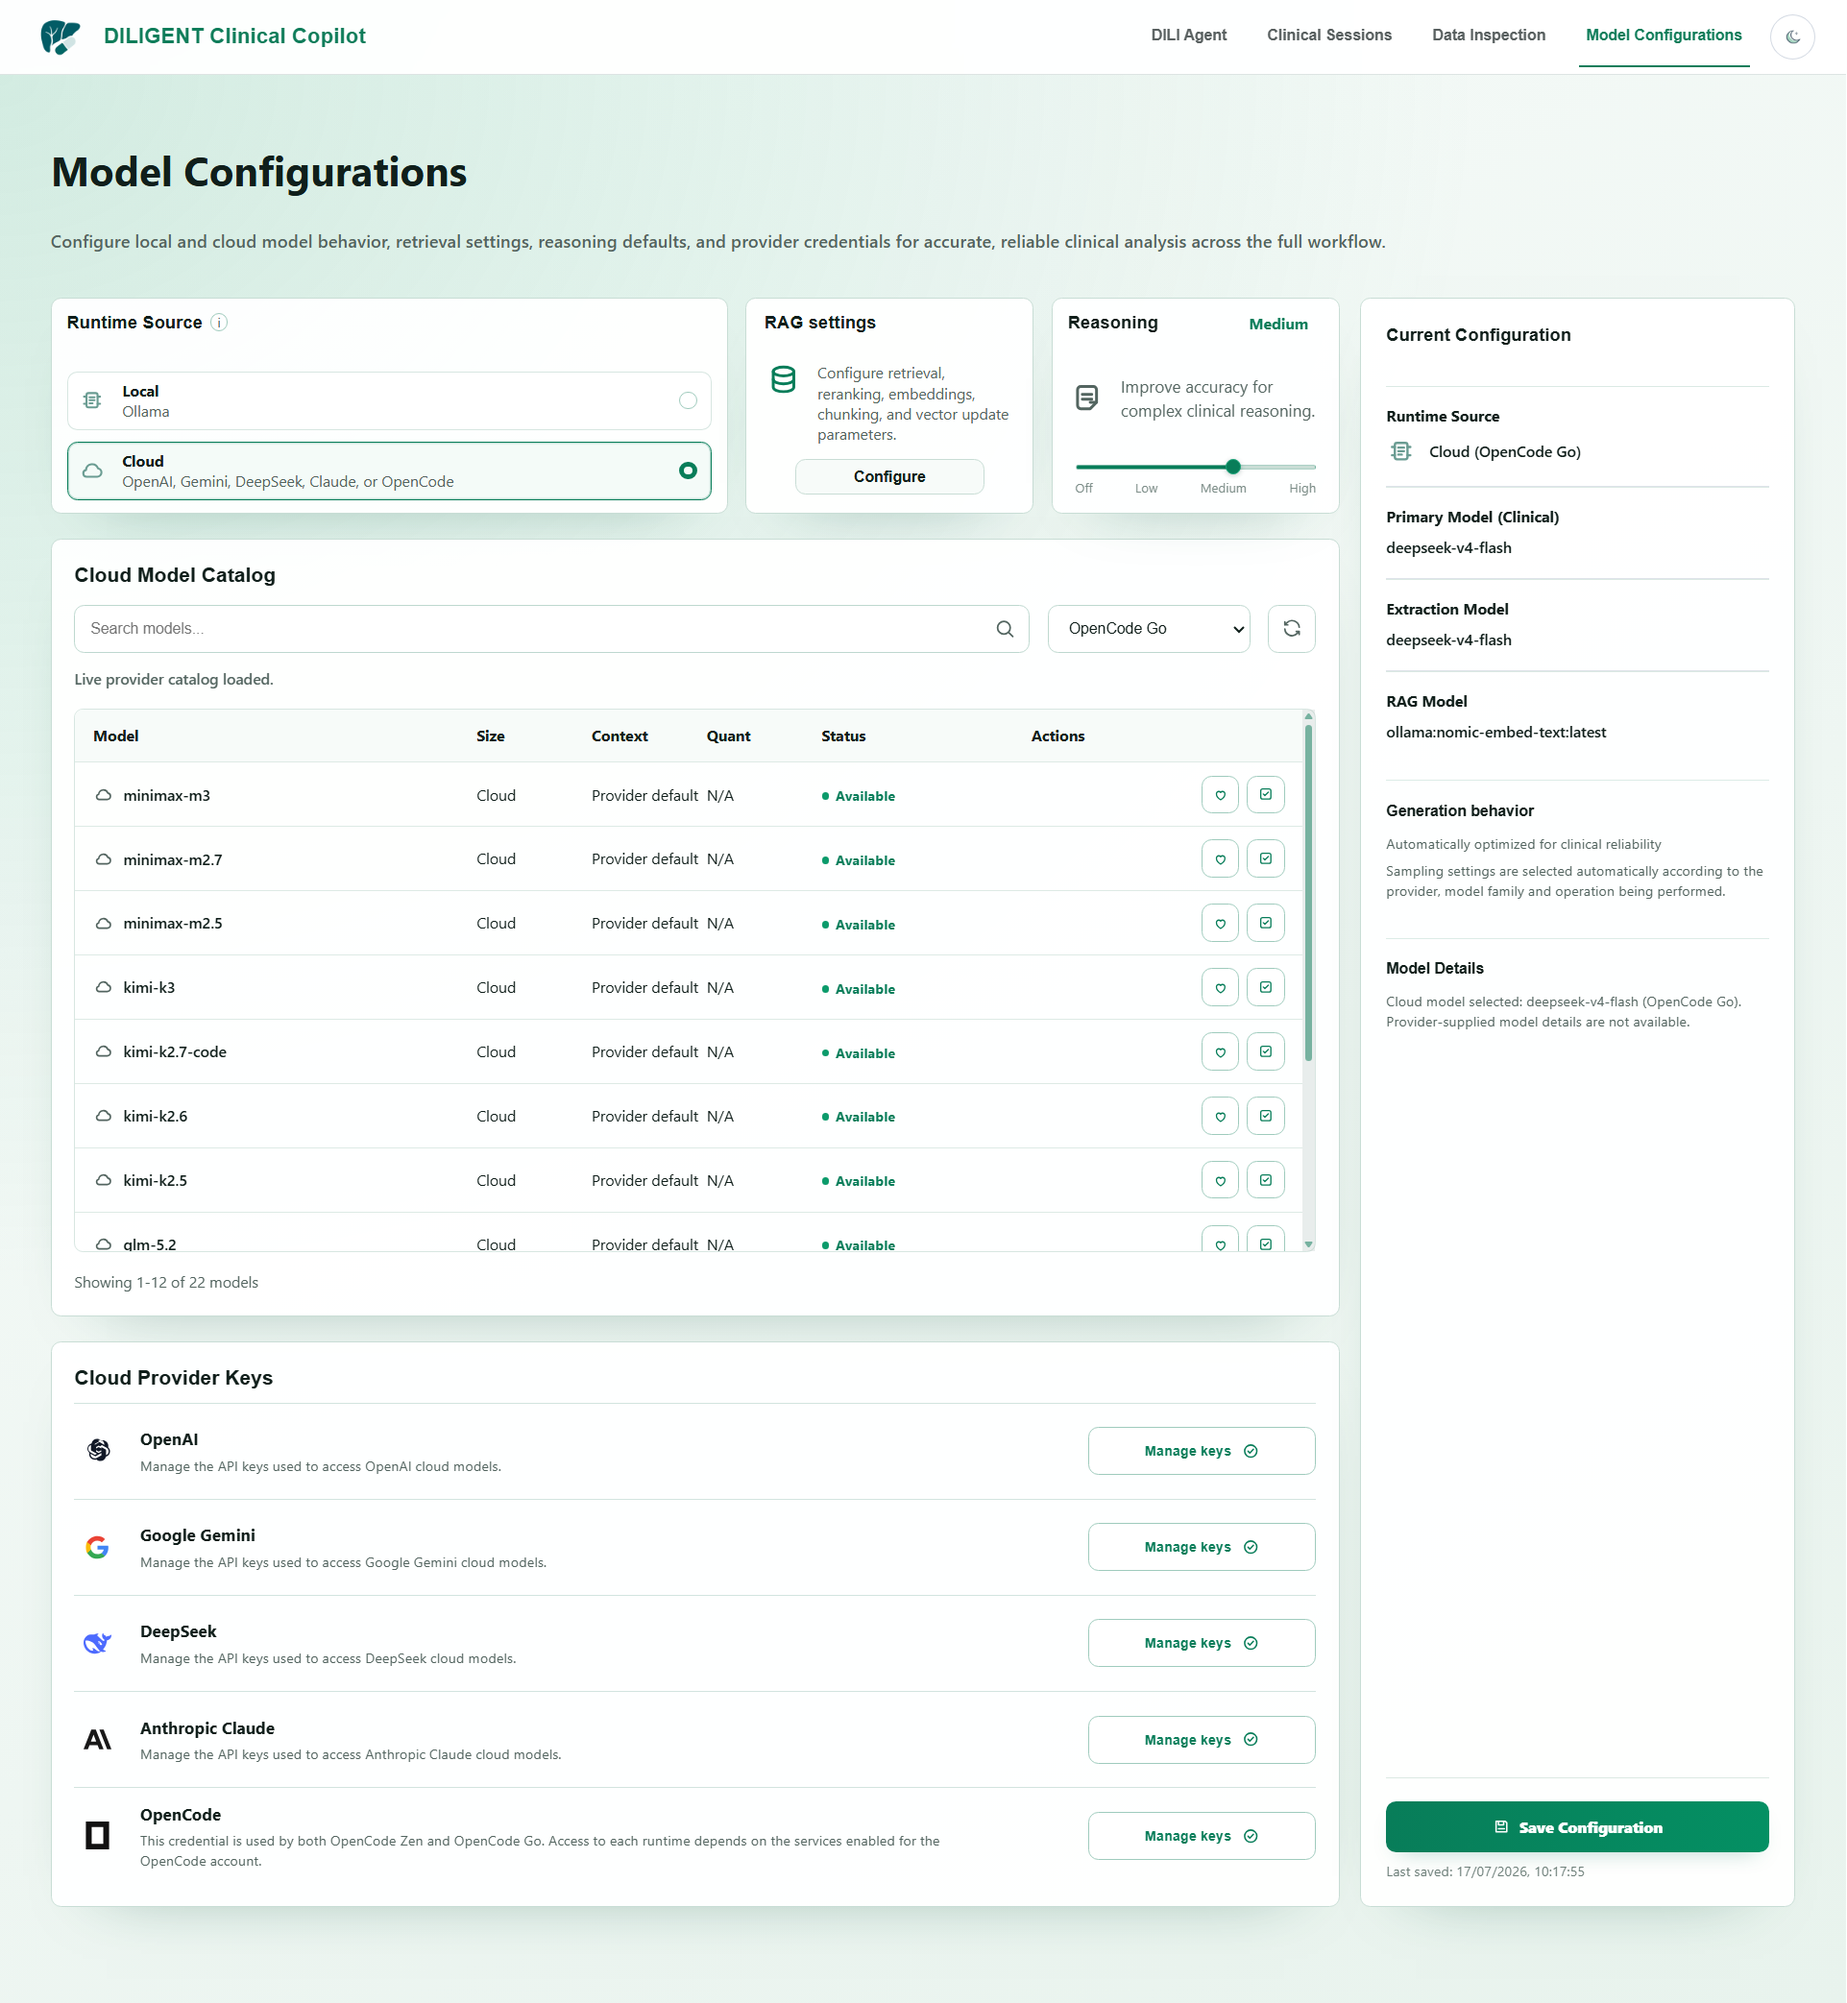
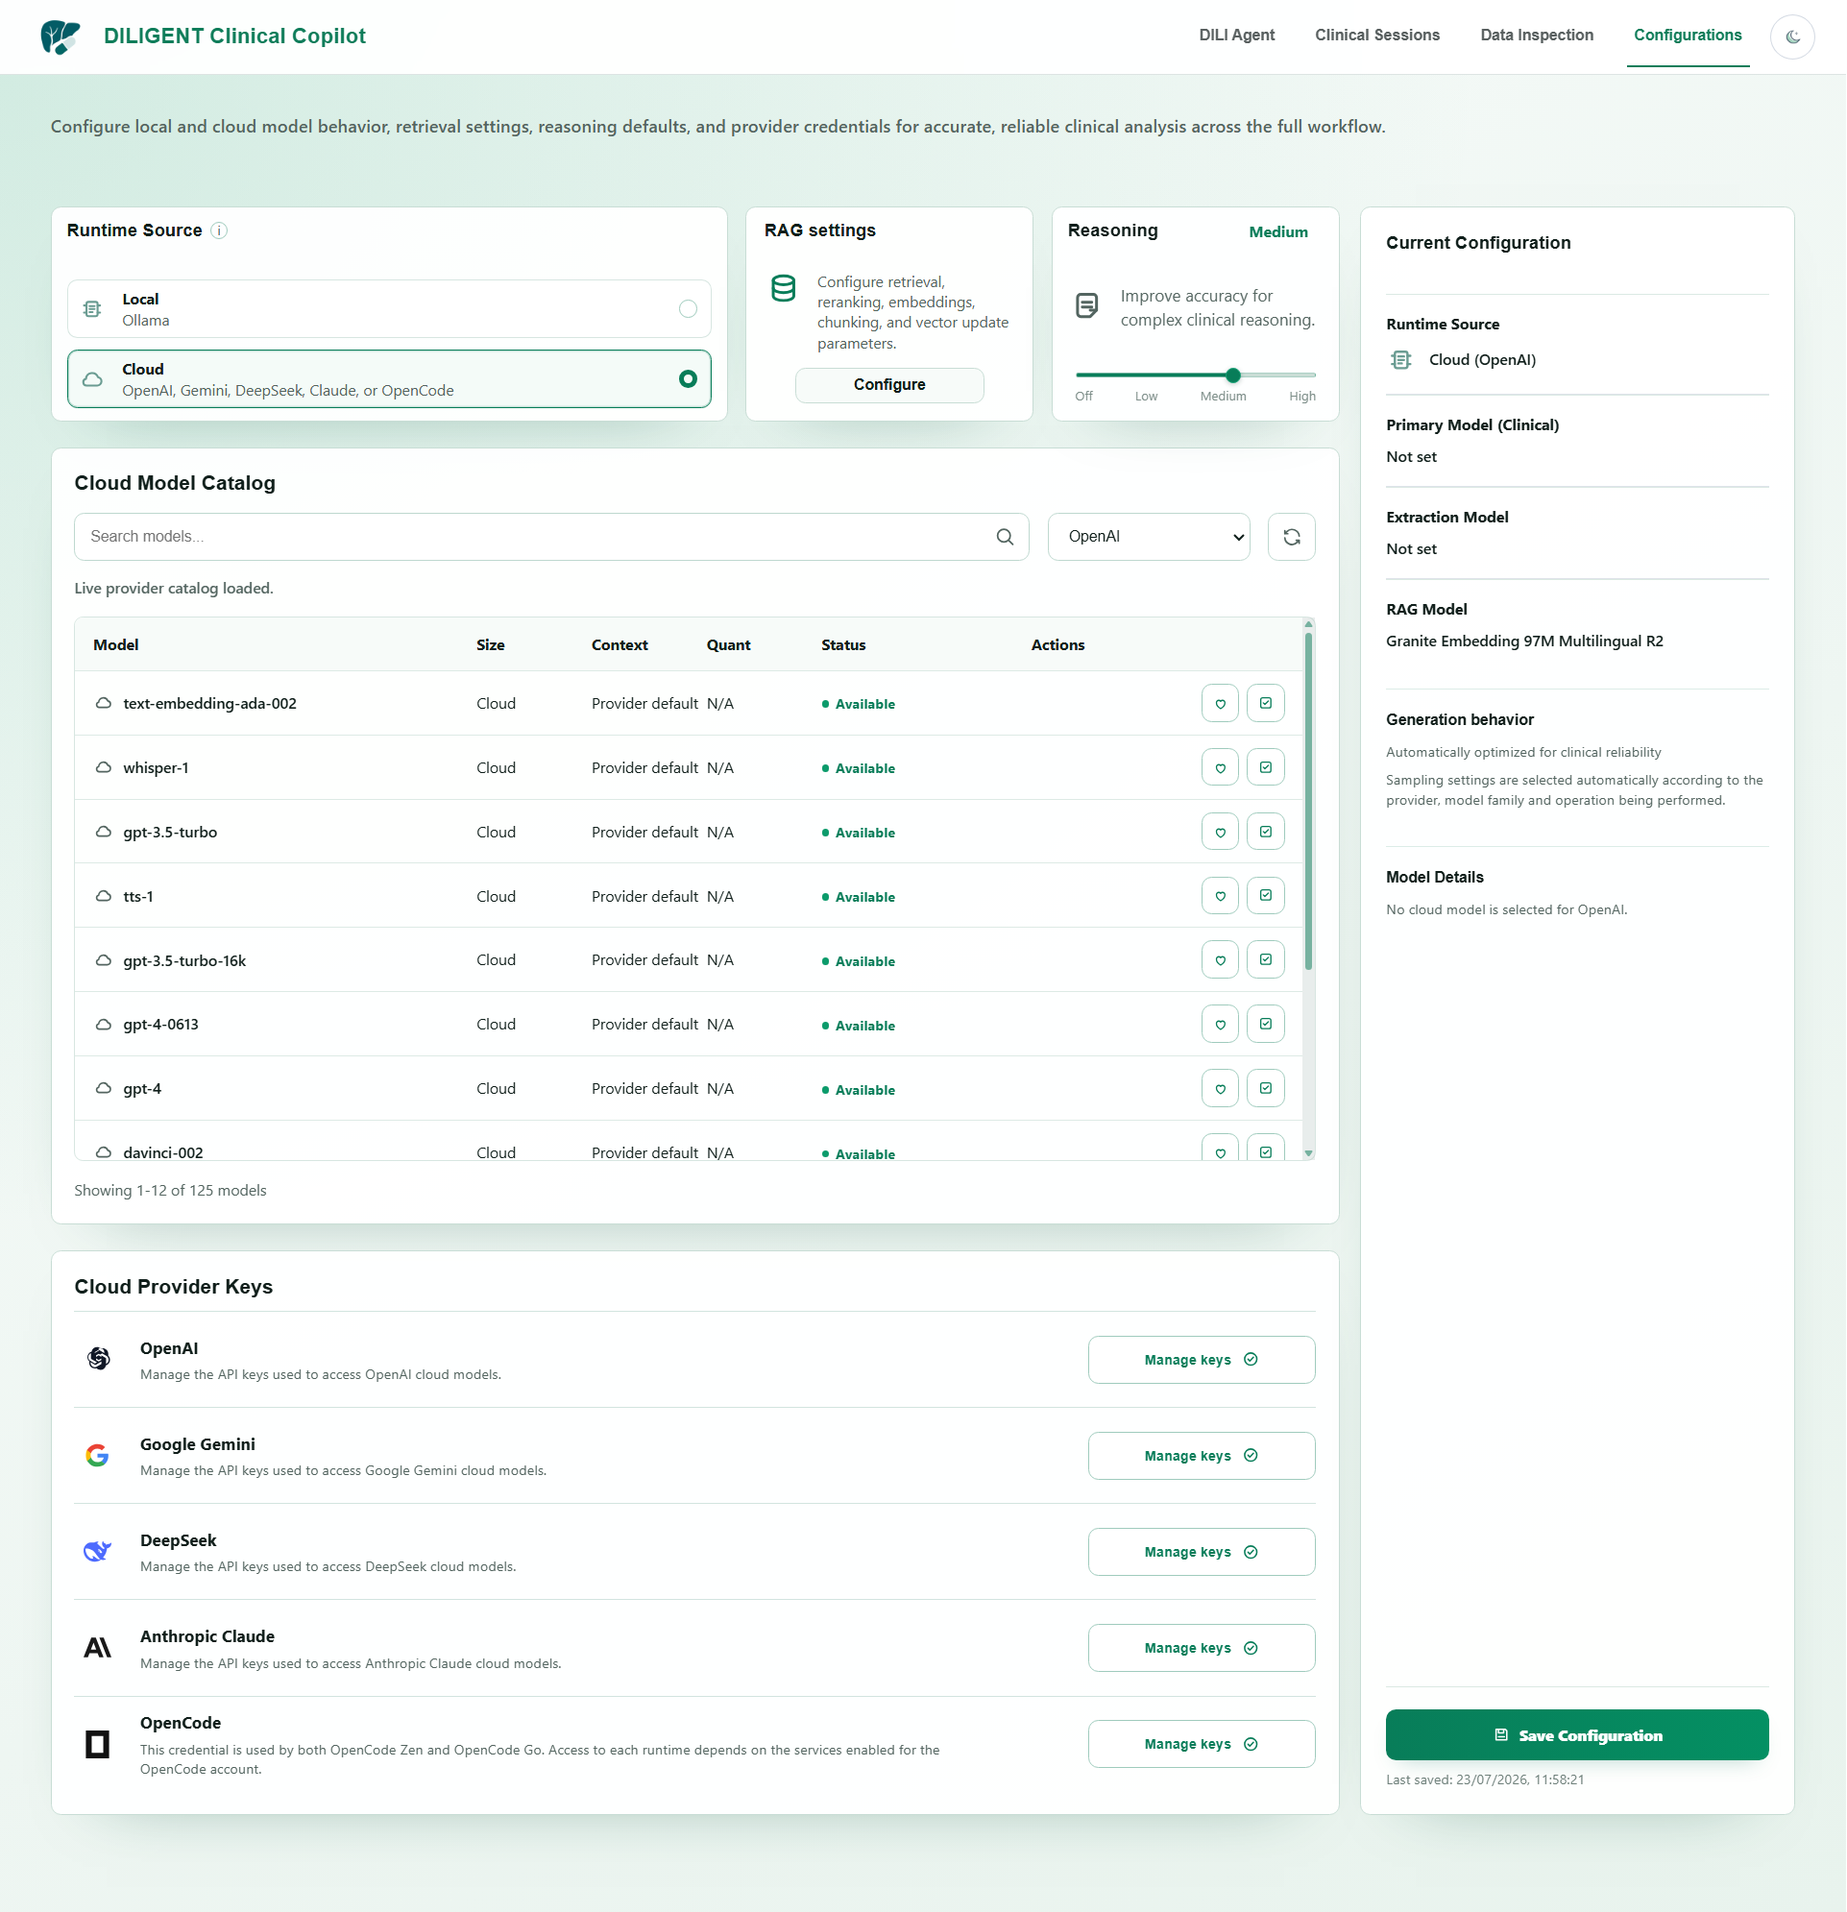
fix: Adjust overflow properties for clinical sessions page and toolbar for better scrolling behavior

diff --git a/app/client/src/app/pages/clinical-sessions/clinical-sessions-page.component.scss b/app/client/src/app/pages/clinical-sessions/clinical-sessions-page.component.scss
@@ -7,7 +7,8 @@
   padding-top: var(--space-xl);
   padding-bottom: var(--space-xl);
   background: var(--app-background);
-  overflow: hidden;
+  overflow-x: hidden;
+  overflow-y: auto;
 }
 
 .clinical-session-link-field {
@@ -277,7 +278,8 @@
   flex-direction: column;
   min-height: 0;
   padding: var(--space-lg);
-  overflow: hidden;
+  overflow-x: hidden;
+  overflow-y: auto;
 }
 
 .clinical-session-toolbar {
